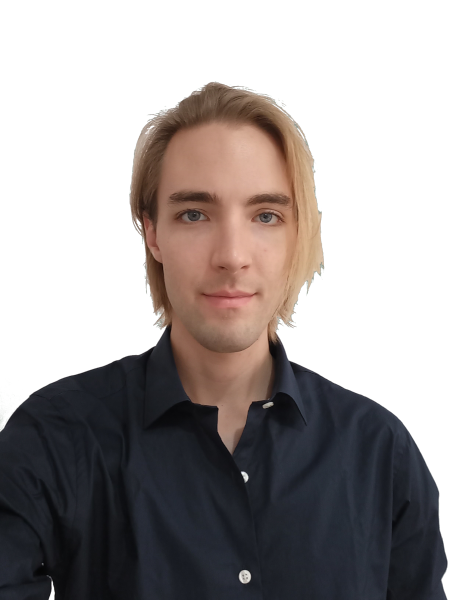
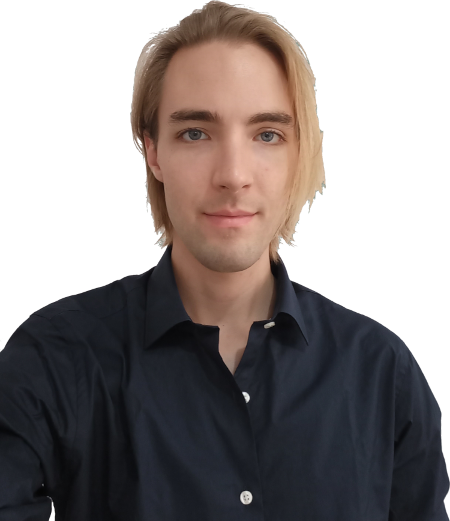
improve profile image responsiveness, add animation

diff --git a/src/components/Home.tsx b/src/components/Home.tsx
@@ -47,17 +47,9 @@ export const Home = ({
       onMouseMove={handleMouseMove}
     >
       <img
-        style={{
-          position: 'absolute',
-          bottom: -mousePosition.y / 150,
-          left: mousePosition.x / 150,
-          transitionProperty: 'all',
-          transitionDuration: '1s',
-          transitionTimingFunction: 'cubic-bezier(0, 0, 0.2, 1)',
-        }}
-        className="grayscale opacity-50 brightness-90 hover:opacity-75 hover:brightness-100 hover:grayscale-0"
+        className="absolute bottom-0 left-0 h-[90vh] object-cover md:h-auto max-h-full max-w-full grayscale opacity-50 brightness-90 hover:opacity-75 hover:brightness-100 hover:grayscale-0 duration-1000 ease-out fade-in"
         srcSet={`${smallProfilePhoto} 450w, ${bigProfilePhoto} 750w`}
-        sizes="(max-width: 1280px) 450px, 750px"
+        sizes="(max-width: 768px) 450px, 750px"
         src={bigProfilePhoto}
         alt={'Profile'}
       />

diff --git a/src/components/Title.tsx b/src/components/Title.tsx
@@ -57,7 +57,11 @@ export const Title = ({ title, subtitle, style, language }: Props) => {
   }, [title, subtitle])
 
   return (
-    <canvas style={style} className="m-auto" ref={canvasRef}>
+    <canvas
+      style={style}
+      className="mb-24 mr-16 mt-auto ml-auto md:m-auto"
+      ref={canvasRef}
+    >
       <h1 className="text-8xl tracking-wide -translate-x-12">{title}</h1>
       <h2 className="text-5xl font-play-bold tracking-widest text-bright-green translate-x-16">
         {subtitle}

diff --git a/src/index.css b/src/index.css
@@ -152,3 +152,22 @@ a {
     transform: rotate(270deg);
   }
 }
+
+.fade-in {
+  animation-name: fadeIn;
+  animation-duration: 4s;
+  animation-timing-function: ease-out;
+  animation-fill-mode: none;
+}
+
+@keyframes fadeIn {
+  0% {
+    opacity: 0;
+  }
+  50% {
+    opacity: 0;
+  }
+  100% {
+    opacity: 0.5;
+  }
+}
